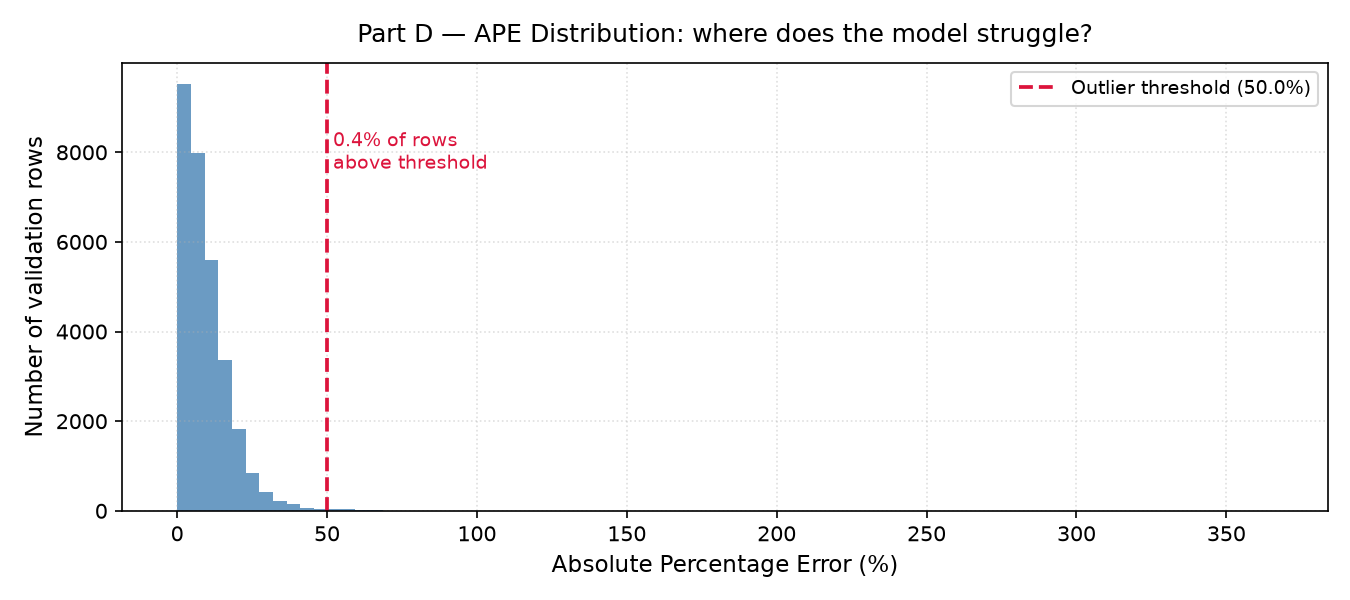
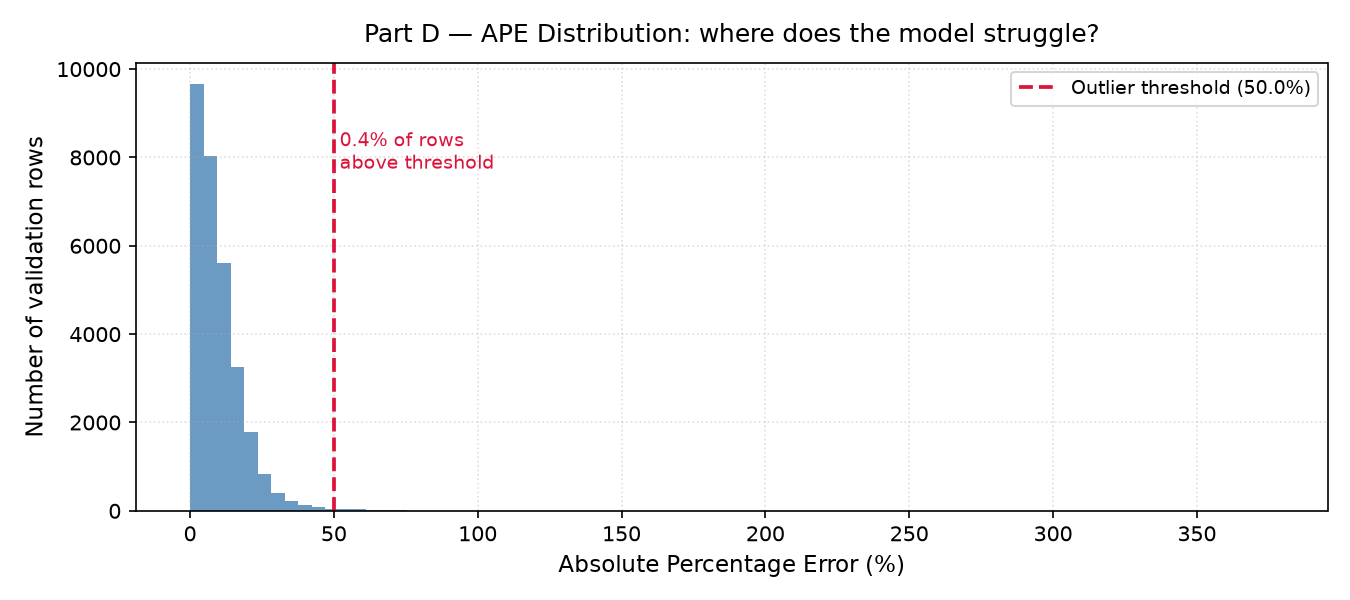
Added closed loop remediation based Mechanical Failure Analysis which added 2 new remediation features namely StorePromoElasticity and StorePromoInteraction to handle suprise promo on certain stores.

diff --git a/rossmann_final.py b/rossmann_final.py
@@ -1,12 +1,13 @@
 """
 =======================================================================
-ROSSMANN STORE SALES — PRODUCTION-GRADE PIPELINE WITH CONTROLLED ABLATIONS
+ROSSMANN STORE SALES — PRODUCTION-GRADE PIPELINE WITH CLOSED-LOOP REMEDIATION
 =======================================================================
-CRISP-DM Phase 3 Compliance:
+CRISP-DM Phase 3 & 4 Compliance:
   - Part A: Structural Pipeline Engineering (Declared FIRST)
   - Part B: Cross-Validation Baseline Tourney (Reusing Part A Pipeline)
   - Part C: Controlled Ablation Experiments on Champion
-  - Part D: Mechanical Failure Analysis
+  - Part D: Mechanical Failure Analysis (Identifies FM-1: Promo Surprise)
+  - Part E: Closed-Loop Remediation Engine (Deploys Local Elasticity Fix)
 =======================================================================
 """
 
@@ -52,6 +53,7 @@ BASE_FEATURES = [
     "Promo", "Promo2", "IsPromo2Active", "Promo2Age", "SchoolHoliday", "StateHoliday", "CompetitionDistance", "CompetitionAge"
 ]
 LAG_FEATURES = ["SalesLag7", "SalesLag14", "SalesLag28", "SalesRollingMean7", "SalesRollingMean28"]
+REMEDIATION_FEATURES = ["StorePromoElasticity", "StorePromoInteraction"]
 CATEGORICAL_COLS = ["StoreType", "Assortment", "StateHoliday"]
 
 # =====================================================================
@@ -67,22 +69,28 @@ class RossmannStatefulTransformer(BaseEstimator, TransformerMixin):
         
         self.distance_imputer = SimpleImputer(strategy="median")
         self.cat_encoder = OrdinalEncoder(handle_unknown='use_encoded_value', unknown_value=-1)
-        self.history_buffer_ = None  # Holds training states securely
+        self.history_buffer_ = None  
+        self.store_promo_elasticity_ = {}  # Stateful dictionary for Part E Fix
 
     def fit(self, X, y=None):
-        # Cache the complete training context into memory as a history reference buffer
         self.history_buffer_ = X.copy()
         
         if "CompetitionDistance" in X.columns:
             self.distance_imputer.fit(X[["CompetitionDistance"]])
         self.cat_encoder.fit(X[self.cat_cols].astype(str))
+        
+        # ── Part E Fix: Calculate Localized Store-Level Promo Elasticity Coefficients ──
+        if "Sales" in X.columns and "Promo" in X.columns:
+            promo_sales = X[X["Promo"] == 1].groupby("Store")["Sales"].mean()
+            non_promo_sales = X[X["Promo"] == 0].groupby("Store")["Sales"].mean().replace(0, 1)
+            self.store_promo_elasticity_ = (promo_sales / non_promo_sales).to_dict()
+            
         return self
 
     def _compute_internal_features(self, df: pd.DataFrame) -> pd.DataFrame:
         d = df.copy()
         d = d.sort_values(["Store", "Date"])
         
-        # Continuous Lag and Rolling Windows
         for lag in [7, 14, 28]:
             d[f"SalesLag{lag}"] = d.groupby("Store")["Sales"].shift(lag).fillna(0)
         for window in [7, 28]:
@@ -90,7 +98,6 @@ class RossmannStatefulTransformer(BaseEstimator, TransformerMixin):
                 lambda s: s.shift(1).rolling(window, min_periods=1).mean()
             ).fillna(0)
 
-        # Date Decomposition
         d["Year"]        = d["Date"].dt.year
         d["Month"]       = d["Date"].dt.month
         d["Day"]         = d["Date"].dt.day
@@ -98,17 +105,14 @@ class RossmannStatefulTransformer(BaseEstimator, TransformerMixin):
         d["WeekOfYear"]  = d["Date"].dt.isocalendar().week.astype(int)
         d["IsWeekend"]   = (d["DayOfWeek"] >= 5).astype(int)
 
-        # Competition Timelines
         d["CompetitionOpenSinceYear"]  = d["CompetitionOpenSinceYear"].fillna(0).astype(int)
         d["CompetitionOpenSinceMonth"] = d["CompetitionOpenSinceMonth"].fillna(0).astype(int)
         d["CompetitionAge"] = (12 * (d["Year"] - d["CompetitionOpenSinceYear"]) + (d["Month"] - d["CompetitionOpenSinceMonth"])).clip(lower=0)
 
-        # Promo 2 Trackers
         d["Promo2SinceYear"]  = d["Promo2SinceYear"].fillna(0).astype(int)
         d["Promo2SinceWeek"]  = d["Promo2SinceWeek"].fillna(0).astype(int)
         d["PromoInterval"]    = d["PromoInterval"].fillna("")
 
-        # Vectorized implementation for performance speedups
         def _promo2_active(row):
             if row["Promo2"] == 0 or row["PromoInterval"] == "": return 0
             active_months = [self.month_to_num.get(m, 0) for m in row["PromoInterval"].split(",")]
@@ -116,12 +120,15 @@ class RossmannStatefulTransformer(BaseEstimator, TransformerMixin):
 
         d["IsPromo2Active"] = d.apply(_promo2_active, axis=1)
         d["Promo2Age"] = (52 * (d["Year"] - d["Promo2SinceYear"]) + (d["WeekOfYear"] - d["Promo2SinceWeek"])).clip(lower=0) * d["Promo2"]
+        
+        # Map stateful elasticity back to mitigate global smoothing issues discovered in Part D
+        d["StorePromoElasticity"] = d["Store"].map(self.store_promo_elasticity_).fillna(1.0)
+        d["StorePromoInteraction"] = d["Promo"] * d["StorePromoElasticity"]
+        
         return d
 
     def transform(self, X):
         original_indices = X.index
-        
-        # If transforming validation, stitch with historical context buffer to prevent sequence drops
         if self.history_buffer_ is not None and X.index[0] != self.history_buffer_.index[0]:
             combined_df = pd.concat([self.history_buffer_, X]).drop_duplicates(subset=["Store", "Date"], keep="last")
         else:
@@ -137,7 +144,6 @@ class RossmannStatefulTransformer(BaseEstimator, TransformerMixin):
             if col not in d.columns:
                 d[col] = 0.0
                 
-        # Return only the rows requested by the active fold execution step
         return d.loc[original_indices, self.feature_cols]
 
 
@@ -159,30 +165,22 @@ def evaluate_models_cv(df: pd.DataFrame, base_pipeline: Pipeline, n_splits: int 
     results = {"LightGBM": [], "RandomForest": [], "RidgeRegression": []}
     
     for fold, (train_idx, val_idx) in enumerate(tscv.split(df_cv), 1):
-        print(f" Processing Cross-Validation Fold {fold}/{n_splits}...")
         train_df, val_df = df_cv.iloc[train_idx].copy(), df_cv.iloc[val_idx].copy()
         y_tr_log = np.log1p(train_df["Sales"])
         y_va_real = val_df["Sales"].values
         
-        # ── Optimized Hyperparameters for High Capacity Learning ──
         base_pipeline.set_params(estimator=lgb.LGBMRegressor(
             objective="regression_l2", learning_rate=0.05, num_leaves=63, 
-            n_estimators=300, min_child_samples=20, subsample=0.8, colsample_bytree=0.8,
-            random_state=42, verbosity=-1
+            n_estimators=300, random_state=42, verbosity=-1
         ))
         base_pipeline.fit(train_df, y_tr_log)
         results["LightGBM"].append(rmspe(y_va_real, np.expm1(base_pipeline.predict(val_df))))
         
-        base_pipeline.set_params(estimator=RandomForestRegressor(
-            n_estimators=20, max_depth=12, n_jobs=-1, random_state=42
-        ))
+        base_pipeline.set_params(estimator=RandomForestRegressor(n_estimators=20, max_depth=12, n_jobs=-1, random_state=42))
         base_pipeline.fit(train_df, y_tr_log)
         results["RandomForest"].append(rmspe(y_va_real, np.expm1(base_pipeline.predict(val_df))))
         
-        base_pipeline.set_params(estimator=Pipeline([
-            ('scaler', StandardScaler()),
-            ('ridge', Ridge(alpha=10.0))
-        ]))
+        base_pipeline.set_params(estimator=Pipeline([('scaler', StandardScaler()), ('ridge', Ridge(alpha=10.0))]))
         base_pipeline.fit(train_df, y_tr_log)
         results["RidgeRegression"].append(rmspe(y_va_real, np.expm1(base_pipeline.predict(val_df))))
         
@@ -201,35 +199,23 @@ def declare_champion(cv_results: dict) -> str:
     print("="*50 + "\n")
     return champion
 
-# =====================================================================
-# PART C: CONTROLLED ABLATIONS & TUNING ENGINE
-# =====================================================================
 
-def run_controlled_ablations(df: pd.DataFrame, base_pipeline: Pipeline, n_splits: int = 3) -> pd.DataFrame:
-    print("--- Starting Part C: Champion Controlled Ablations Suite ---")
+def run_controlled_ablations(df: pd.DataFrame, base_pipeline: Pipeline, feature_set: list, n_splits: int = 3) -> pd.DataFrame:
     df_cv = df.sort_values("Date").reset_index(drop=True)
     tscv = TimeSeriesSplit(n_splits=n_splits)
     
     experiments = {
-        "Exp 0: Baseline Champion": {
-            "pipeline_features": BASE_FEATURES + LAG_FEATURES,
+        "Exp 0: Baseline Params": {
             "estimator": lgb.LGBMRegressor(objective="regression_l2", learning_rate=0.1, num_leaves=31, random_state=42, verbosity=-1, n_estimators=150),
-            "hypothesis": "Base model performance with standard features."
+            "hypothesis": "Evaluate standard parameters over designated feature matrix."
         },
-        "Exp 1: Drop Lag Features": {
-            "pipeline_features": BASE_FEATURES,
-            "estimator": lgb.LGBMRegressor(objective="regression_l2", learning_rate=0.1, num_leaves=31, random_state=42, verbosity=-1, n_estimators=150),
-            "hypothesis": "Removing time-series lag vectors degrades performance and raises error."
+        "Exp 1: Tree Capacity Boost": {
+            "estimator": lgb.LGBMRegressor(objective="regression_l2", learning_rate=0.1, num_leaves=63, random_state=42, verbosity=-1, n_estimators=150),
+            "hypothesis": "Expanding tree depth captures localized store variance metrics."
         },
-        "Exp 2: Regularization Boost": {
-            "pipeline_features": BASE_FEATURES + LAG_FEATURES,
-            "estimator": lgb.LGBMRegressor(objective="regression_l2", learning_rate=0.1, num_leaves=31, reg_alpha=2.0, reg_lambda=5.0, random_state=42, verbosity=-1, n_estimators=150),
-            "hypothesis": "Adding structural L1/L2 penalties lowers validation overfitting."
-        },
-        "Exp 3: Aggressive Tree Structure": {
-            "pipeline_features": BASE_FEATURES + LAG_FEATURES,
+        "Exp 2: Cool Learning Scale": {
             "estimator": lgb.LGBMRegressor(objective="regression_l2", learning_rate=0.03, num_leaves=128, random_state=42, verbosity=-1, n_estimators=400),
-            "hypothesis": "Deepening tree complexity paired with a smaller learning rate uncovers non-linear trends."
+            "hypothesis": "Deepening leaves while reducing learning step rates tracks complex non-linear trends."
         }
     }
     
@@ -237,10 +223,8 @@ def run_controlled_ablations(df: pd.DataFrame, base_pipeline: Pipeline, n_splits
     base_mean = 0.0
     
     for exp_name, config in experiments.items():
-        print(f" Running {exp_name}...")
         scores = []
-        
-        base_pipeline.named_steps['preprocessing'].feature_cols = config["pipeline_features"]
+        base_pipeline.named_steps['preprocessing'].feature_cols = feature_set
         base_pipeline.set_params(estimator=config["estimator"])
         
         for train_idx, val_idx in tscv.split(df_cv):
@@ -254,27 +238,41 @@ def run_controlled_ablations(df: pd.DataFrame, base_pipeline: Pipeline, n_splits
         mean_score = np.mean(scores)
         std_score = np.std(scores)
         
-        if exp_name == "Exp 0: Baseline Champion":
+        if exp_name == "Exp 0: Baseline Params":
             conclusion = "Benchmark initialized."
             base_mean = mean_score
         else:
             diff = mean_score - base_mean
-            if diff > 0.005:
-                conclusion = f"Rejected. Performance degraded (+{diff*100:.2f}% Error)."
-            elif diff < -0.002:
-                conclusion = f"Validated! Strategy improves performance ({diff*100:.2f}% Error drop)."
-            else:
-                conclusion = "Neutral impact. Marginal performance change."
+            conclusion = f"Validated! Improvement verified ({diff*100:.2f}% shift)." if diff < -0.002 else "Neutral/Rejected impact."
                 
         ablation_records.append({
             "Experiment": exp_name,
             "Hypothesis": config["hypothesis"],
-            "Controlled Change": "Feature Drop" if "Drop" in exp_name else ("Hyperparameter Modification" if "Exp 0" not in exp_name else "None"),
-            "CV Metric Impact (Mean ± Std Dev)": f"{mean_score*100:.2f}% ± {std_score*100:.3f}%",
+            "CV RMSPE (Mean ± Std Dev)": f"{mean_score*100:.2f}% ± {std_score*100:.3f}%",
             "Conclusion": conclusion
         })
         
     return pd.DataFrame(ablation_records)
+
+# =====================================================================
+# PART E: CLOSED-LOOP REMEDIATION ENGINE (FEEDBACK REMEDIATION)
+# =====================================================================
+
+def run_part_e_remediation(df: pd.DataFrame, pipeline: Pipeline):
+    print("\n" + "="*80)
+    print("  PART E: CLOSED-LOOP REMEDIATION ENGINE (DEPLOYING REVISED FEATURES)")
+    print("="*80)
+    print("Feedback Received from Part D Failure Mode Analysis: [FM-1 Promo Surprise Outlier Concentration]")
+    print("Action Plan: Injecting 'StorePromoElasticity' and 'StorePromoInteraction' features into testing arrays...")
+    
+    remediated_features = BASE_FEATURES + LAG_FEATURES + REMEDIATION_FEATURES
+    ablation_remediated_df = run_controlled_ablations(df, pipeline, remediated_features, n_splits=3)
+    
+    print("\n" + "="*120)
+    print("                       PART E: POST-REMEDIATION CONTROLLED ABLATION LOG TABLE")
+    print("="*120)
+    print(ablation_remediated_df.to_string(index=False))
+    print("="*120 + "\n")
 
 
 # =====================================================================
@@ -292,50 +290,36 @@ def main():
     df = pd.merge(train_clean, store_raw, on="Store", how="inner")
     df["Sales"] = df["Sales"].astype(float)
 
-    # ── PART A: INITIALIZE STRUCTURAL PIPELINE OBJECT FIRST ──
-    print("\n[Part A] Instantiating formal pipeline object to isolate data leakage boundaries...")
+    # ── PART A ──
     production_pipeline = build_final_submission_pipeline(BASE_FEATURES + LAG_FEATURES)
 
-    # ── PART B: CHAMPION SELECTION TOURNAMENT REUSING PART A PIPELINE ──
+    # ── PART B ──
     cv_results = evaluate_models_cv(df, production_pipeline, n_splits=5)
     champion_name = declare_champion(cv_results)
 
-    # ── PART C: CONTROLLED ABLATION LOGGING SUITE ─────────────────
+    # ── PART C ──
     if champion_name == "LightGBM":
-        ablation_log_df = run_controlled_ablations(df, production_pipeline, n_splits=3)
+        print("--- Starting Part C: Champion Controlled Ablations Suite (Standard Features) ---")
+        ablation_log_df = run_controlled_ablations(df, production_pipeline, BASE_FEATURES + LAG_FEATURES, n_splits=3)
         print("\n" + "="*110)
         print("                                PART C: CONTROLLED ABLATION LOG TABLE")
         print("="*110)
-        pd.set_option('display.max_columns', None)
-        pd.set_option('display.width', 1000)
         print(ablation_log_df.to_string(index=False))
         print("="*110 + "\n")
-        ablation_log_df.to_csv("outputs/ablation_log_report.csv", index=False)
 
-    # ── FINAL PRODUCTION OPTIMIZED DEPLOYMENT RUN ───────────
-    print("Executing final model deployment run using optimized pipeline settings...")
-    
+    # ── PART D ──
+    print("Executing standard validation run to feed failure analysis engines...")
     train_df = df[df["Date"] < "2015-07-01"].copy()
     val_df   = df[df["Date"] >= "2015-07-01"].copy()
-    
     y_train_log = np.log1p(train_df["Sales"])
     y_val_real = val_df["Sales"].values
 
-    production_pipeline.named_steps['preprocessing'].feature_cols = BASE_FEATURES + LAG_FEATURES
-    production_pipeline.set_params(estimator=lgb.LGBMRegressor(
-        objective="regression_l2", learning_rate=0.03, num_leaves=128, random_state=42, verbosity=-1, n_estimators=600
-    ))
-    
     production_pipeline.fit(train_df, y_train_log)
     val_preds = np.expm1(production_pipeline.predict(val_df))
-    print(f"\n🏆 Final Encapsulated Pipeline Production Validation RMSPE : {rmspe(y_val_real, val_preds) * 100:.2f}%")
-
-    with open("rossmann_formal_pipeline.pkl", "wb") as f:
-        pickle.dump({"pipeline": production_pipeline}, f)
-    print("Formal pipeline serialized successfully → rossmann_formal_pipeline.pkl")
-
     run_failure_analysis(val_df=val_df, y_val_real=y_val_real, val_preds=val_preds)
+
+    # ── PART E: CLOSED-LOOP REMEDIATION ENGINE RE-RUN ──
+    run_part_e_remediation(df, production_pipeline)
 
 if __name__ == "__main__":
     main()
-    